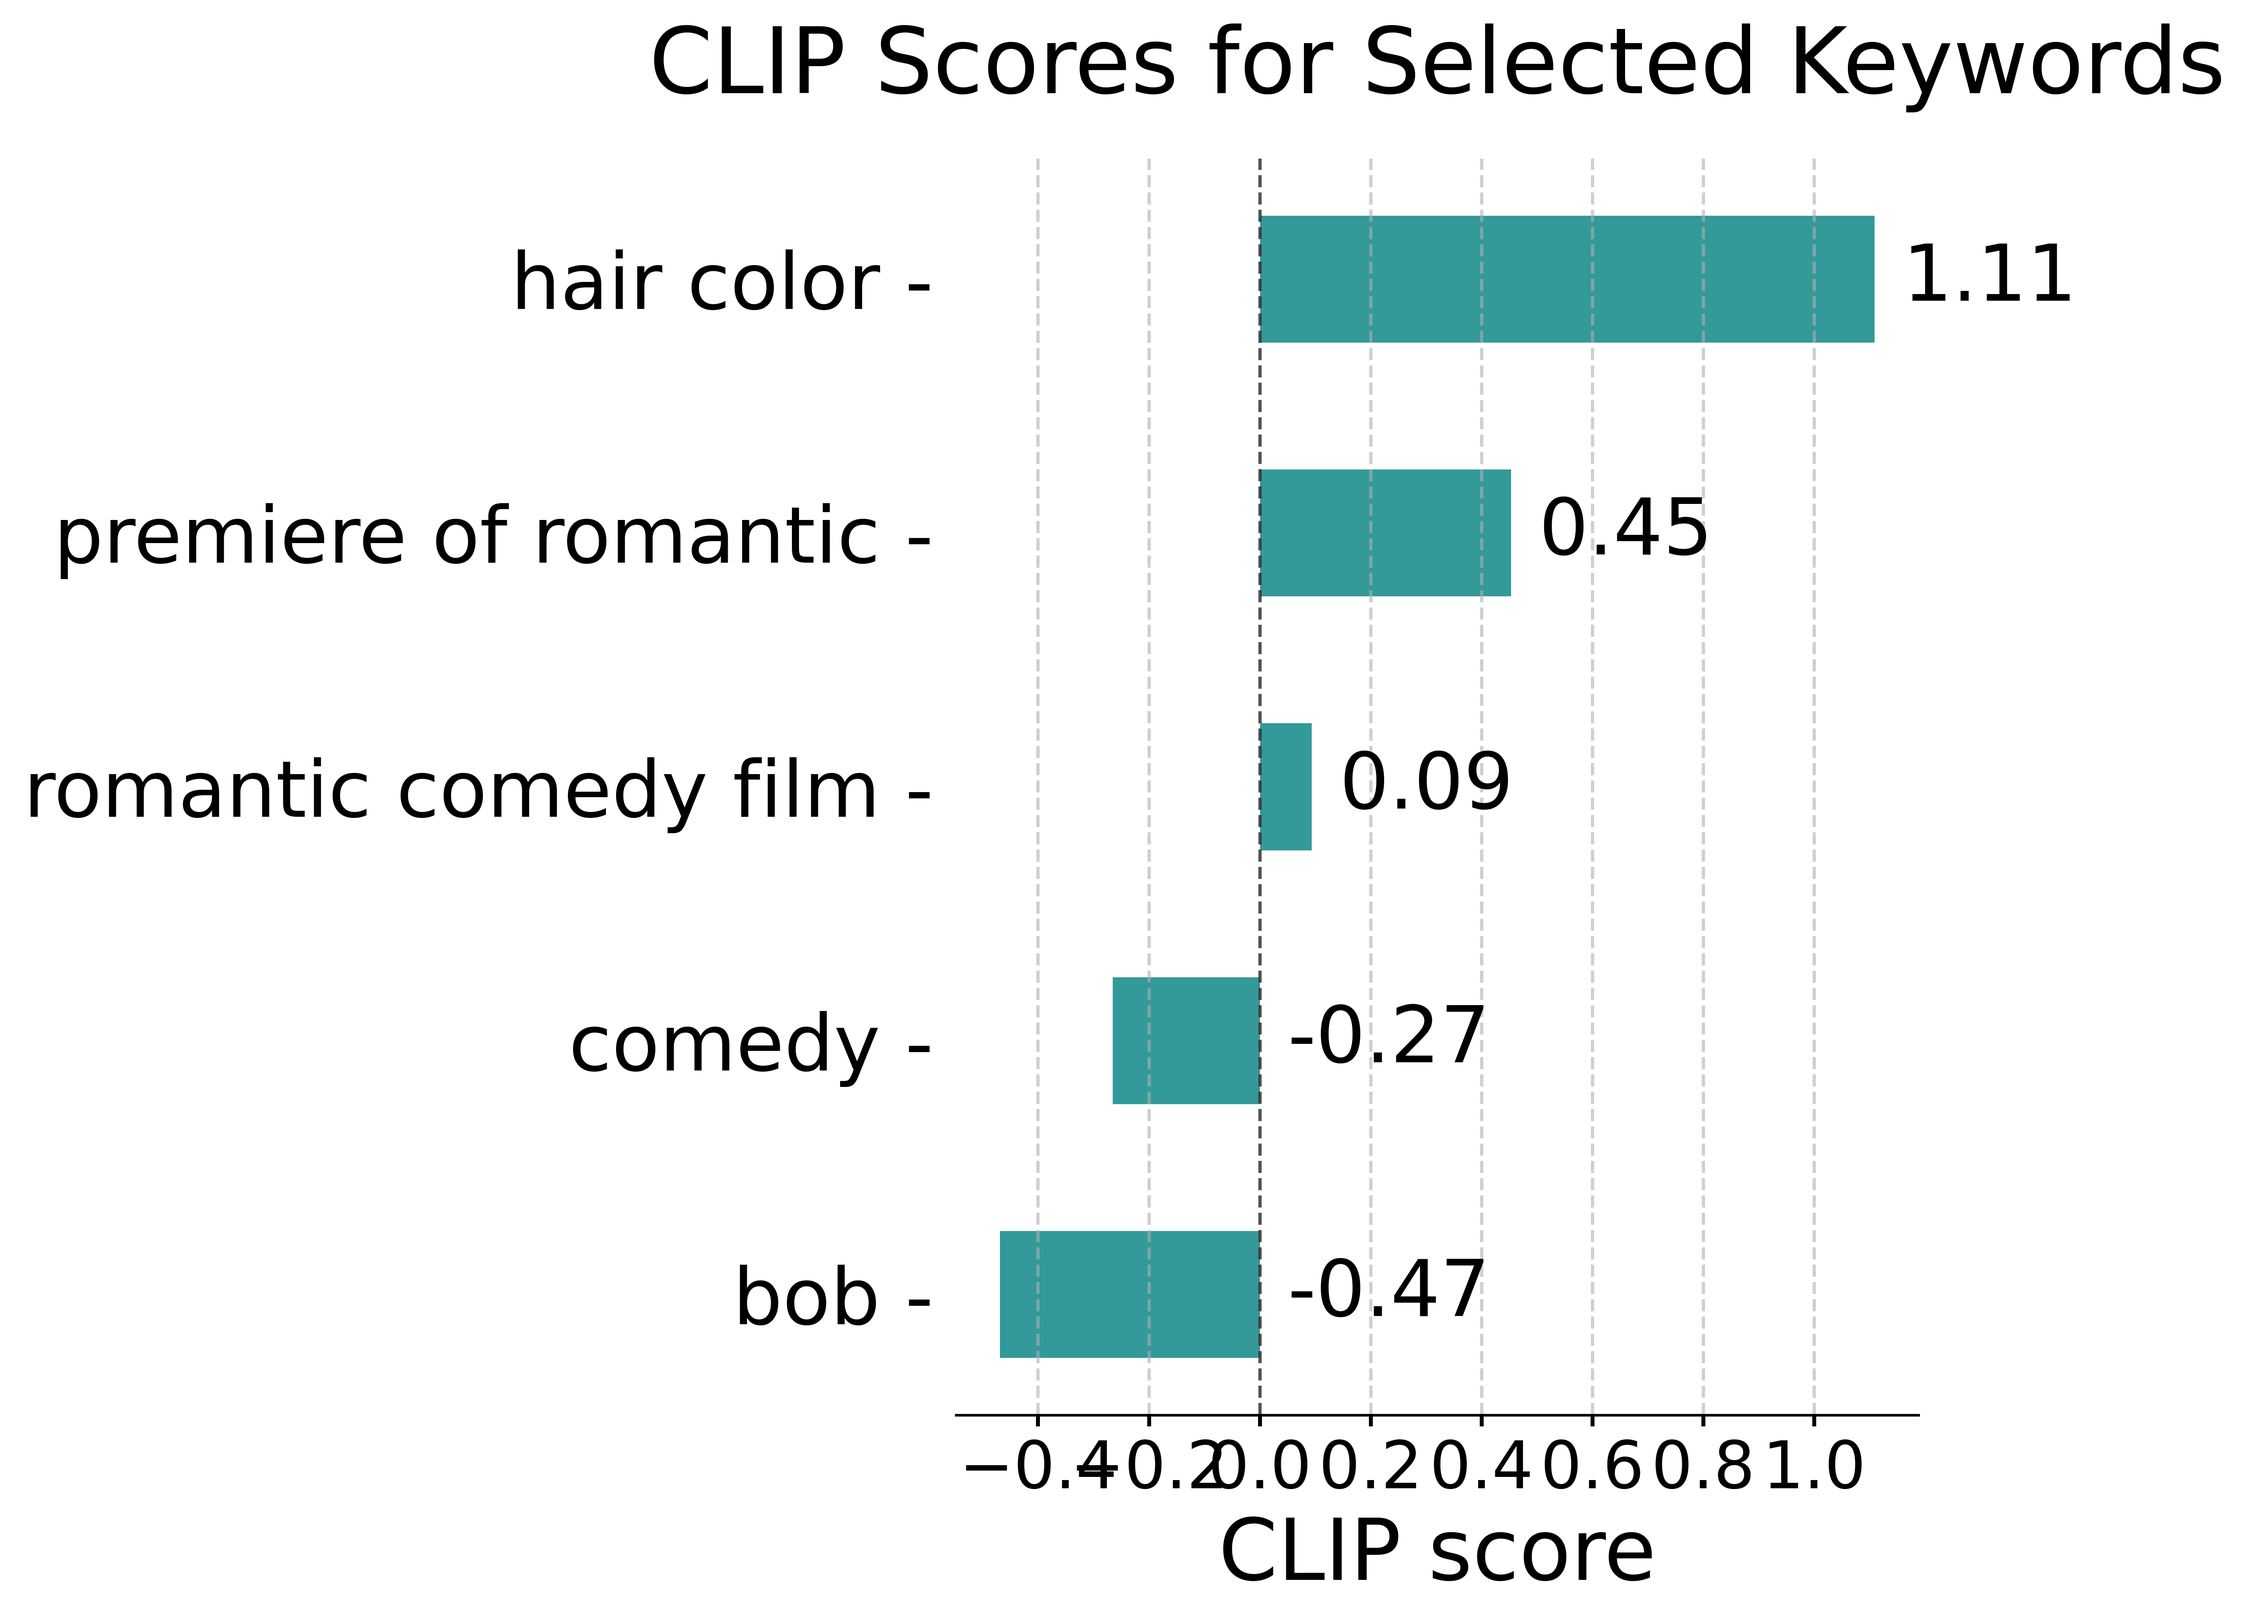
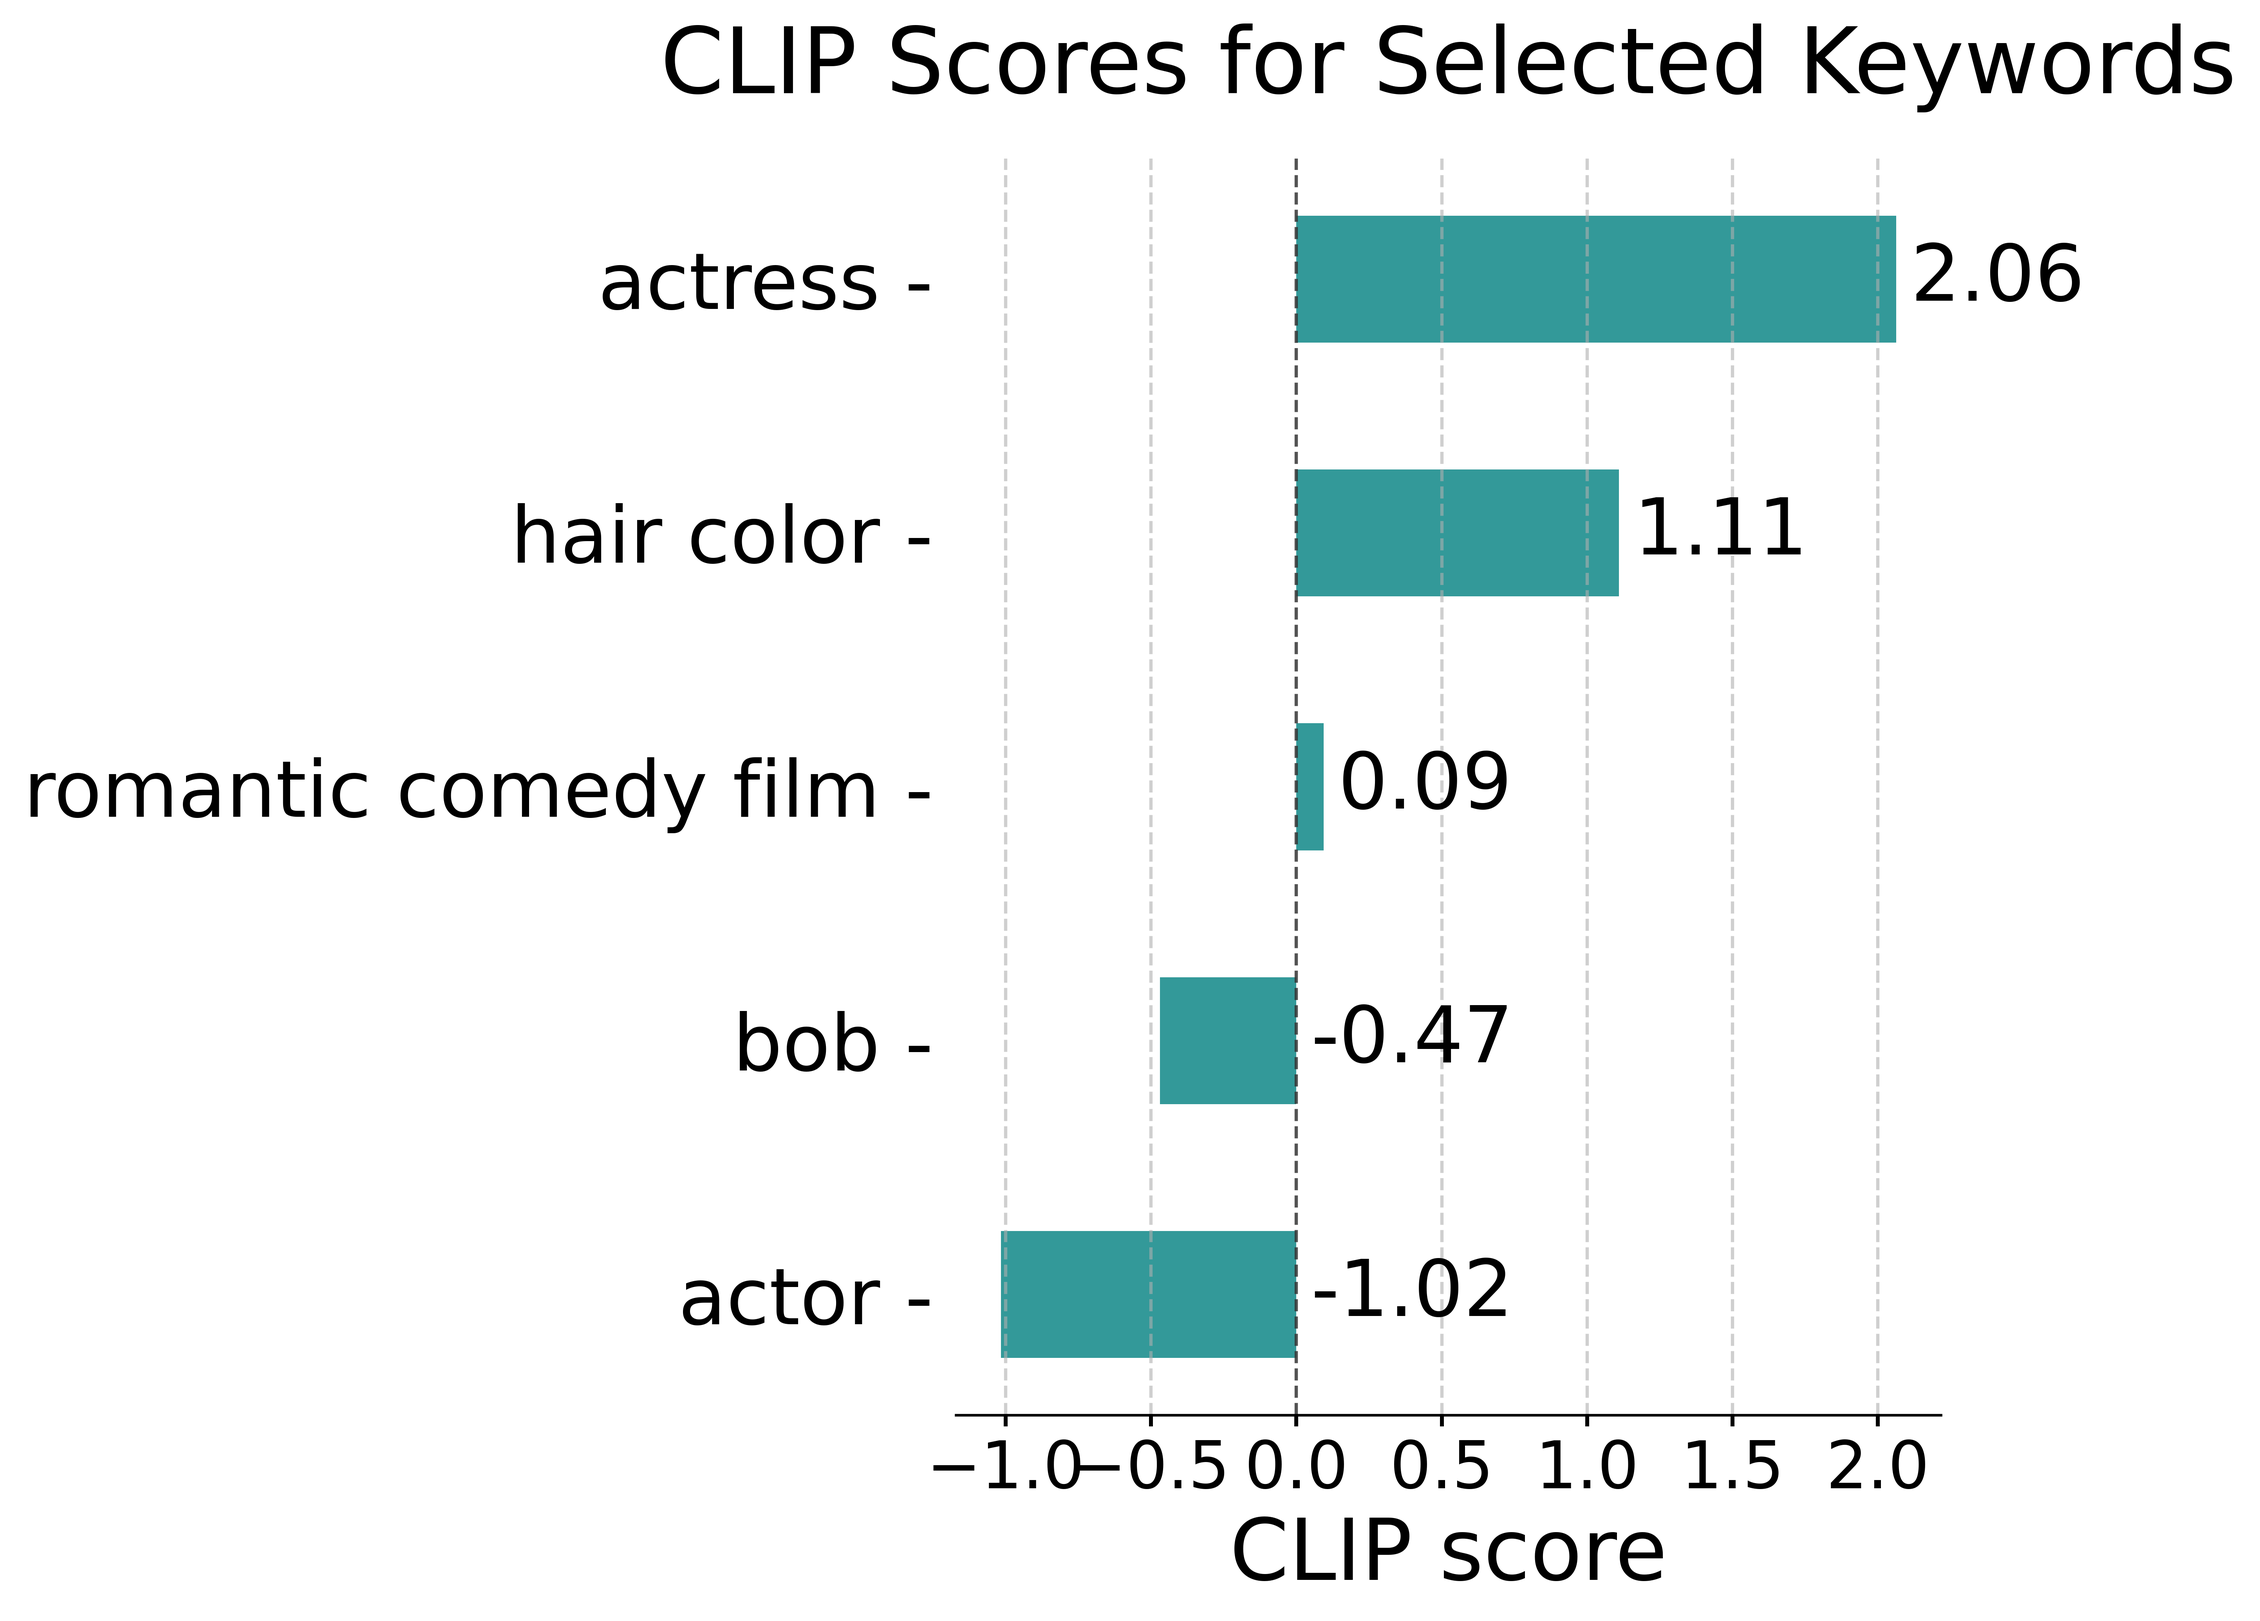
ran plotting for fig3 imagenet, waterbirds, and celeba

diff --git a/plotting_fig3.py b/plotting_fig3.py
@@ -41,7 +41,7 @@ def sample_subset_keywords(keywords, clip_scores):
     keywords = np.array(keywords)
     high_scores = keywords[:2]
     low_scores = keywords[-2:]
-    mid_scores = list(keywords[len(keywords) // 2])
+    mid_scores = [keywords[len(keywords) // 2]]
 
     subset_keywords = np.concatenate((high_scores, mid_scores, low_scores))
     subset_keywords = sorted(subset_keywords, key=lambda x: clip_scores[x], reverse=True)
